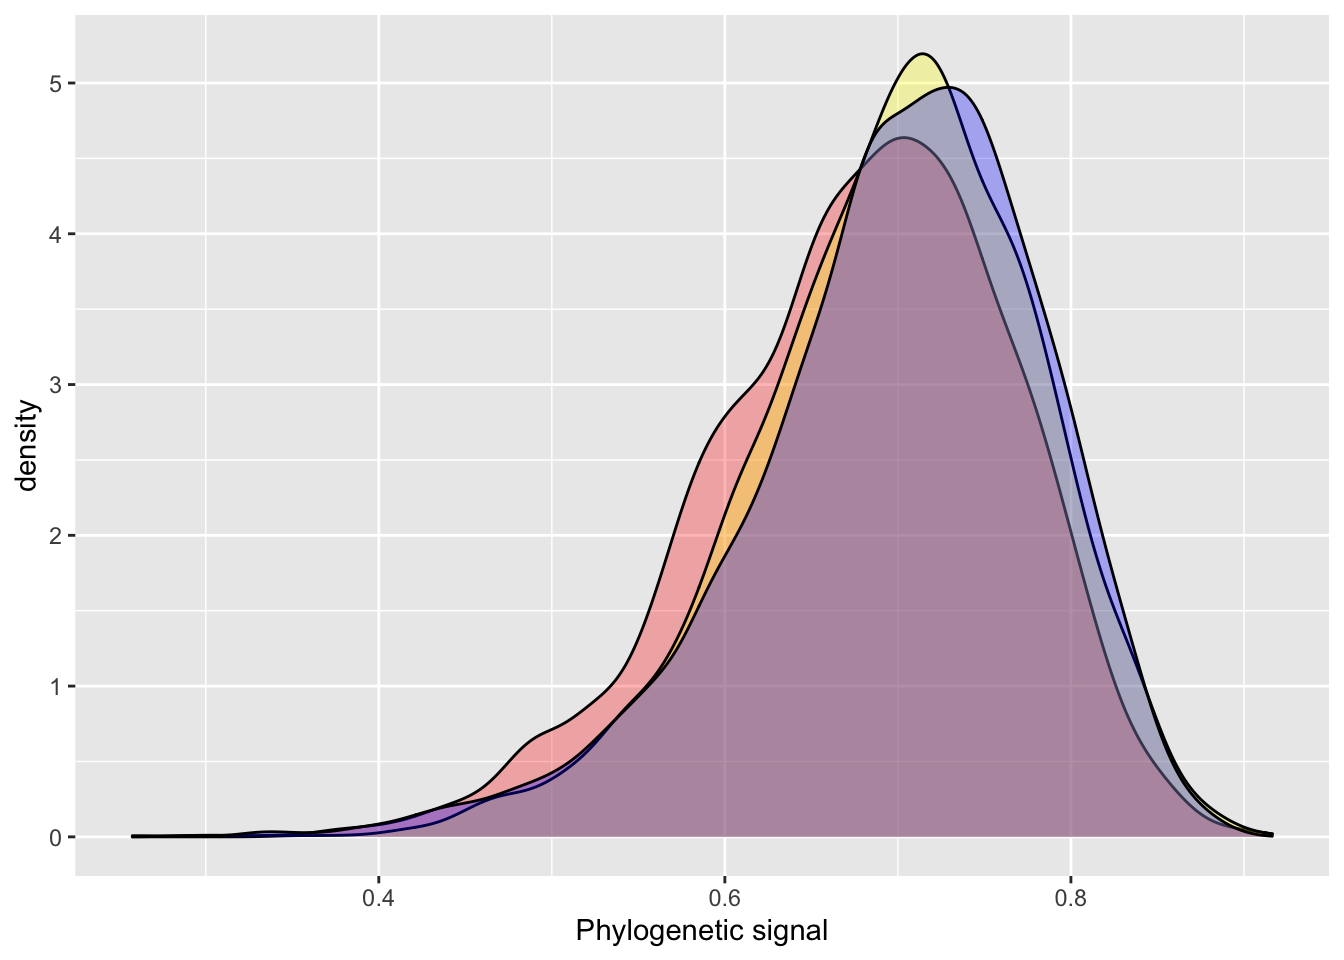
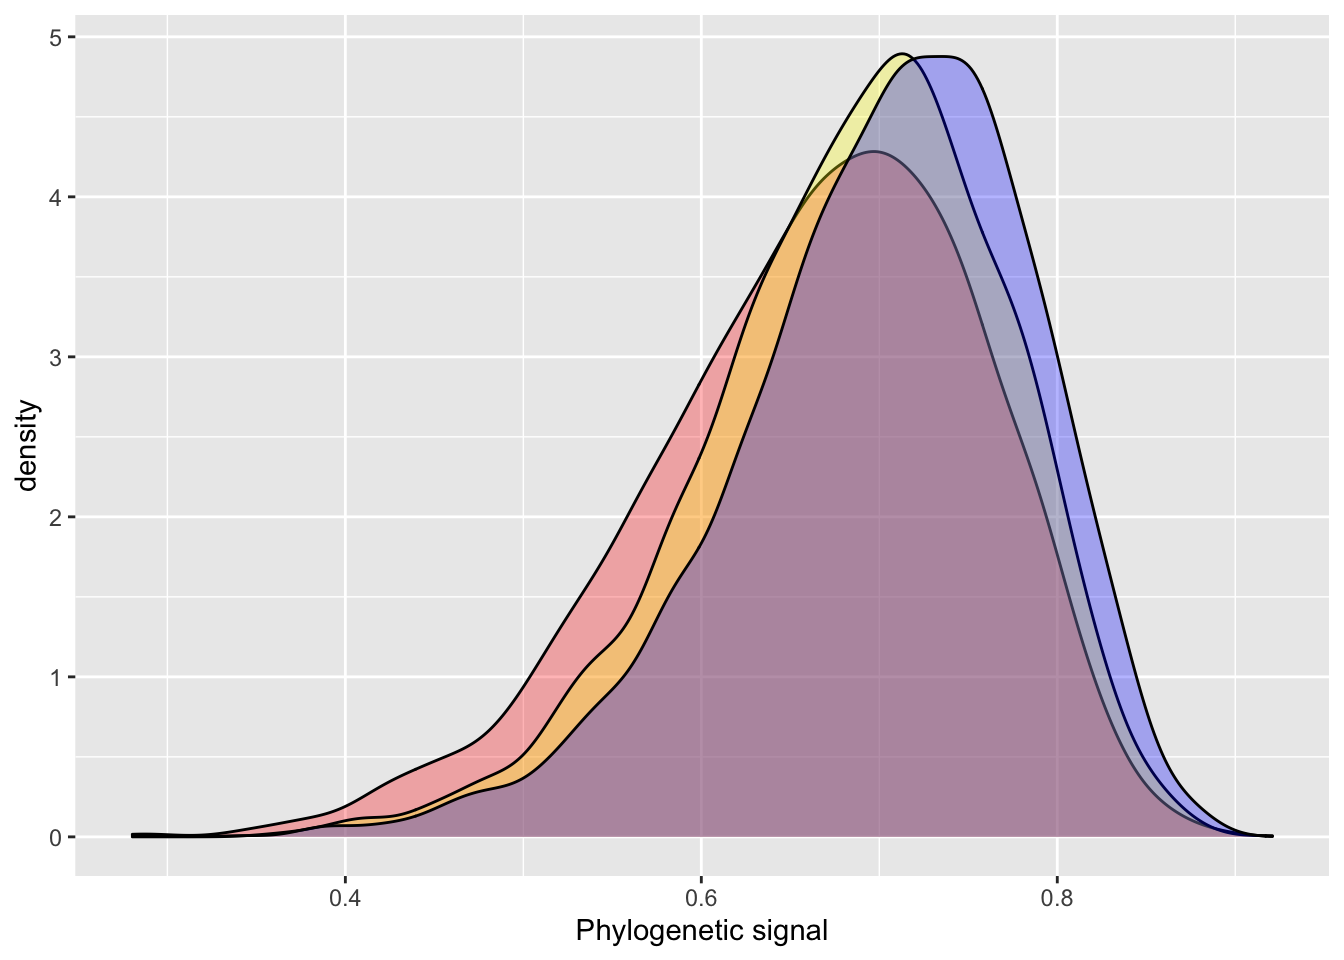
inla post update

diff --git a/content/post/2022-07-15-phylogenetic-signal-in-inla/index.html b/content/post/2022-07-15-phylogenetic-signal-in-inla/index.html
@@ -1,14 +1,15 @@
 ---
 title: "Phylogenetic Signal in INLA"
 author: "R package build"
-date: '2022-07-15'
-slug: []
+date: "2022-07-15"
+output: pdf_document
 categories: []
 tags: []
 Description: ''
 Tags: []
 Categories: []
 DisableComments: no
+slug: []
 ---
 
 
@@ -97,10 +98,10 @@ model_simple_brms &lt;- brm(
 ##    = inla.mode, safe = FALSE, debug = debug, &quot;, &quot; .parent.frame = 
 ##    .parent.frame)&quot;) 
 ## Time used:
-##     Pre = 3.66, Running = 0.533, Post = 0.0425, Total = 4.24 
+##     Pre = 3.83, Running = 0.581, Post = 0.0426, Total = 4.46 
 ## Fixed effects:
 ##               mean    sd 0.025quant 0.5quant 0.975quant mode kld
-## (Intercept) 39.759 6.848     26.281   39.732     53.380   NA   0
+## (Intercept) 39.757 6.832     26.311   39.731     53.342   NA   0
 ## cofactor     5.178 0.137      4.911    5.178      5.447   NA   0
 ## 
 ## Random effects:
@@ -110,12 +111,12 @@ model_simple_brms &lt;- brm(
 ## Model hyperparameters:
 ##                                          mean    sd 0.025quant 0.5quant
 ## Precision for the Gaussian observations 0.012 0.002      0.009    0.012
-## Precision for phylo_id                  0.006 0.002      0.003    0.005
+## Precision for phylo_id                  0.006 0.002      0.003    0.006
 ##                                         0.975quant mode
-## Precision for the Gaussian observations      0.016   NA
-## Precision for phylo_id                       0.010   NA
+## Precision for the Gaussian observations      0.015   NA
+## Precision for phylo_id                       0.011   NA
 ## 
-## Marginal log-Likelihood:  -1008.87 
+## Marginal log-Likelihood:  -1008.45 
 ##  is computed 
 ## Posterior summaries for the linear predictor and the fitted values are computed
 ## (Posterior marginals needs also &#39;control.compute=list(return.marginals.predictor=TRUE)&#39;)</code></pre>
@@ -126,13 +127,13 @@ posterior_sample = inla.hyperpar.sample(4000, model_simple_inla) # 4000 samples 
 lambda = (1 / posterior_sample[,2]) / (rowSums(1 / posterior_sample))
 summary(lambda)</code></pre>
 <pre><code>##    Min. 1st Qu.  Median    Mean 3rd Qu.    Max. 
-##  0.2918  0.6210  0.6862  0.6776  0.7395  0.9052</code></pre>
+##  0.2803  0.6033  0.6729  0.6630  0.7317  0.8937</code></pre>
 <pre class="r"><code># BRMS output
 hyp &lt;- &quot;sd_phylo__Intercept^2 / (sd_phylo__Intercept^2 + sigma^2) = 0&quot;
 hyp &lt;- hypothesis(model_simple_brms, hyp, class = NULL)
 summary(hyp$samples[,1])</code></pre>
 <pre><code>##    Min. 1st Qu.  Median    Mean 3rd Qu.    Max. 
-##  0.2575  0.6498  0.7077  0.6980  0.7583  0.8915</code></pre>
+##  0.2834  0.6518  0.7108  0.7015  0.7618  0.8931</code></pre>
 <pre class="r"><code>plot_df = data.frame(inla = lambda,
                      brms = c(hyp$samples[,1]),
                      iter = 1:4000)
@@ -164,12 +165,12 @@ plot_df$inla.pc = lambda.pc
 
 summary(plot_df[,c(1:2,4)])</code></pre>
 <pre><code>##       inla             brms           inla.pc      
-##  Min.   :0.2918   Min.   :0.2575   Min.   :0.3530  
-##  1st Qu.:0.6210   1st Qu.:0.6498   1st Qu.:0.6464  
-##  Median :0.6862   Median :0.7077   Median :0.7038  
-##  Mean   :0.6776   Mean   :0.6980   Mean   :0.6969  
-##  3rd Qu.:0.7395   3rd Qu.:0.7583   3rd Qu.:0.7547  
-##  Max.   :0.9052   Max.   :0.8915   Max.   :0.9164</code></pre>
+##  Min.   :0.2803   Min.   :0.2834   Min.   :0.3612  
+##  1st Qu.:0.6033   1st Qu.:0.6518   1st Qu.:0.6320  
+##  Median :0.6729   Median :0.7108   Median :0.6930  
+##  Mean   :0.6630   Mean   :0.7015   Mean   :0.6846  
+##  3rd Qu.:0.7317   3rd Qu.:0.7618   3rd Qu.:0.7447  
+##  Max.   :0.8937   Max.   :0.8931   Max.   :0.9209</code></pre>
 <pre class="r"><code>ggplot() + 
   geom_density(data = plot_df, aes(inla), fill = &quot;red&quot;, alpha = 0.3) + 
   geom_density(data = plot_df, aes(inla.pc), fill = &quot;yellow&quot;, alpha = 0.3) +
@@ -238,24 +239,24 @@ posterior_sample = inla.hyperpar.sample(6000, model_inla_repeat1) # 6000 samples
 lambda = (1 / posterior_sample[,2]) / (rowSums(1 / posterior_sample))
 summary(lambda)</code></pre>
 <pre><code>##    Min. 1st Qu.  Median    Mean 3rd Qu.    Max. 
-##  0.5540  0.7249  0.7617  0.7588  0.7961  0.8978</code></pre>
+##  0.5730  0.7276  0.7596  0.7577  0.7904  0.8963</code></pre>
 <pre class="r"><code># BRMS output
 hyp &lt;- paste(&quot;sd_phylo__Intercept^2 /&quot;, &quot;(sd_phylo__Intercept^2 + sd_species__Intercept^2 + sigma^2) = 0&quot;)
 hyp &lt;- hypothesis(model_brms_repeat1, hyp, class = NULL)
 summary(hyp$samples[,1])</code></pre>
 <pre><code>##    Min. 1st Qu.  Median    Mean 3rd Qu.    Max. 
-##  0.4625  0.7066  0.7450  0.7413  0.7818  0.8798</code></pre>
+##  0.4791  0.7072  0.7455  0.7414  0.7827  0.8967</code></pre>
 <pre class="r"><code>plot_df = data.frame(inla = lambda,
                      brms = c(hyp$samples[,1]))
 
 summary(plot_df)</code></pre>
 <pre><code>##       inla             brms       
-##  Min.   :0.5540   Min.   :0.4625  
-##  1st Qu.:0.7249   1st Qu.:0.7066  
-##  Median :0.7617   Median :0.7450  
-##  Mean   :0.7588   Mean   :0.7413  
-##  3rd Qu.:0.7961   3rd Qu.:0.7818  
-##  Max.   :0.8978   Max.   :0.8798</code></pre>
+##  Min.   :0.5730   Min.   :0.4791  
+##  1st Qu.:0.7276   1st Qu.:0.7072  
+##  Median :0.7596   Median :0.7455  
+##  Mean   :0.7577   Mean   :0.7414  
+##  3rd Qu.:0.7904   3rd Qu.:0.7827  
+##  Max.   :0.8963   Max.   :0.8967</code></pre>
 <pre class="r"><code>ggplot() + 
   geom_density(data = plot_df, aes(inla), fill = &quot;red&quot;, alpha = 0.3) + 
   geom_density(data = plot_df, aes(brms), fill = &quot;blue&quot;, alpha = 0.3) +
